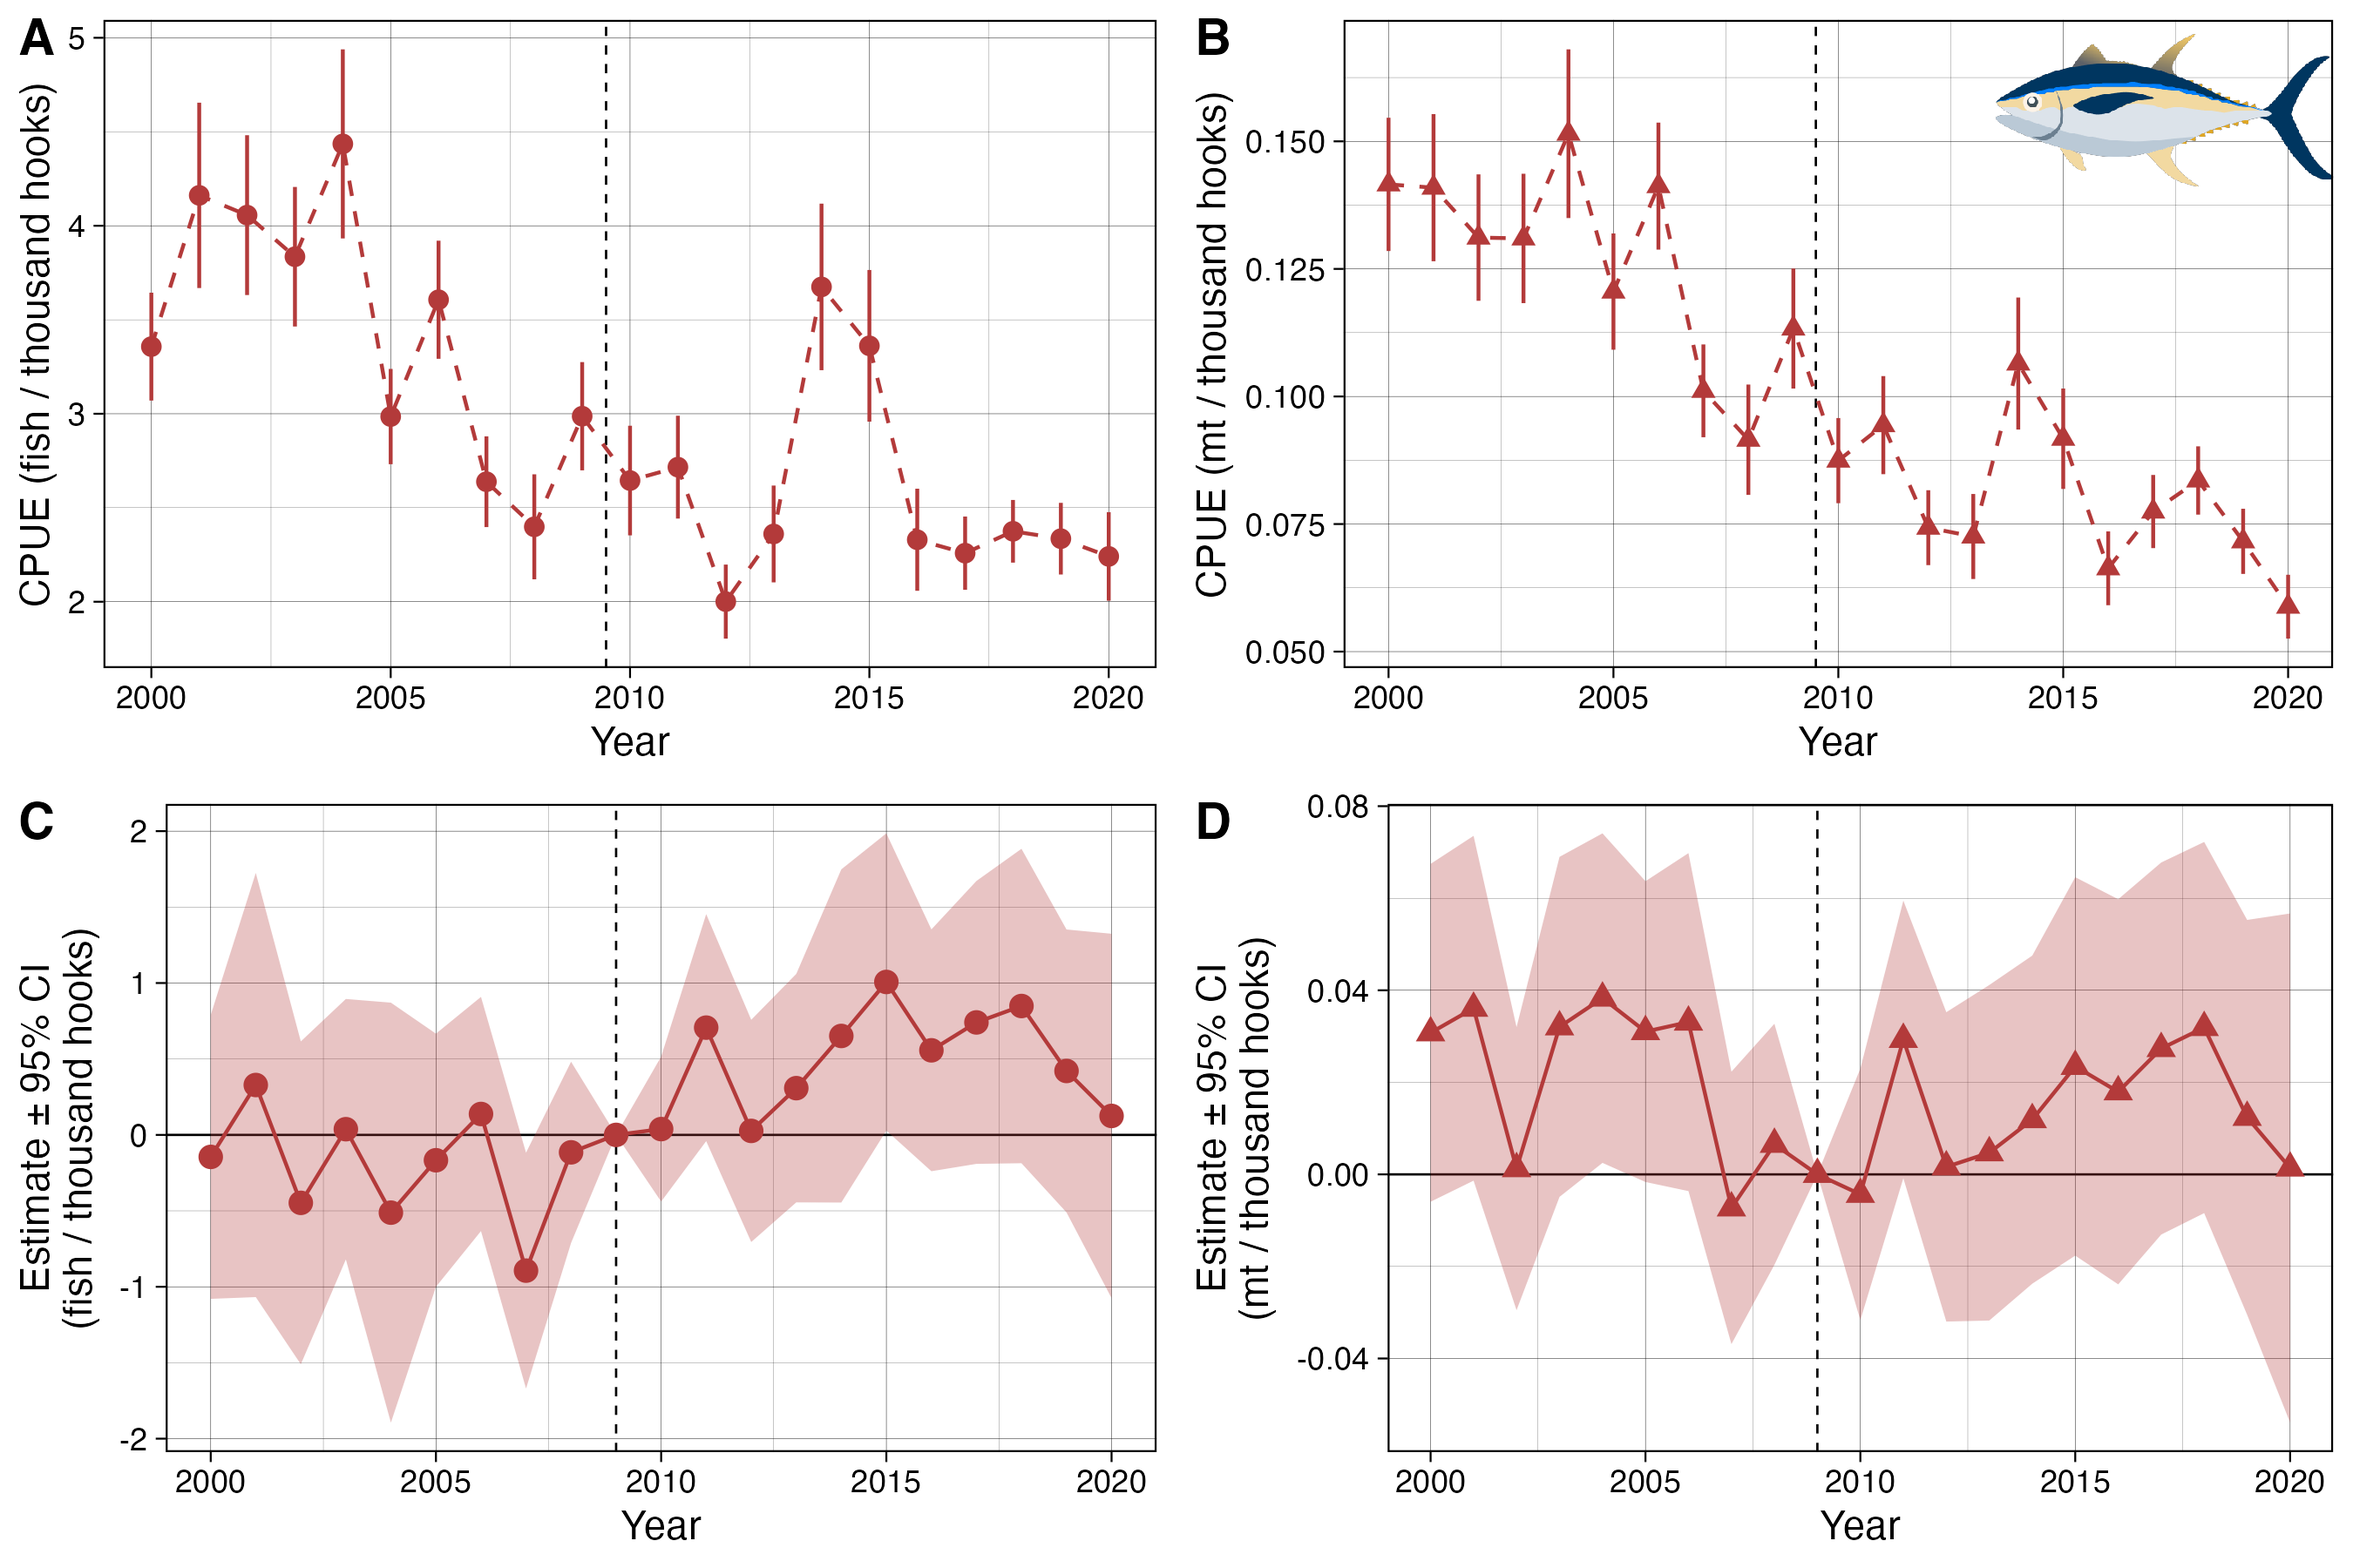
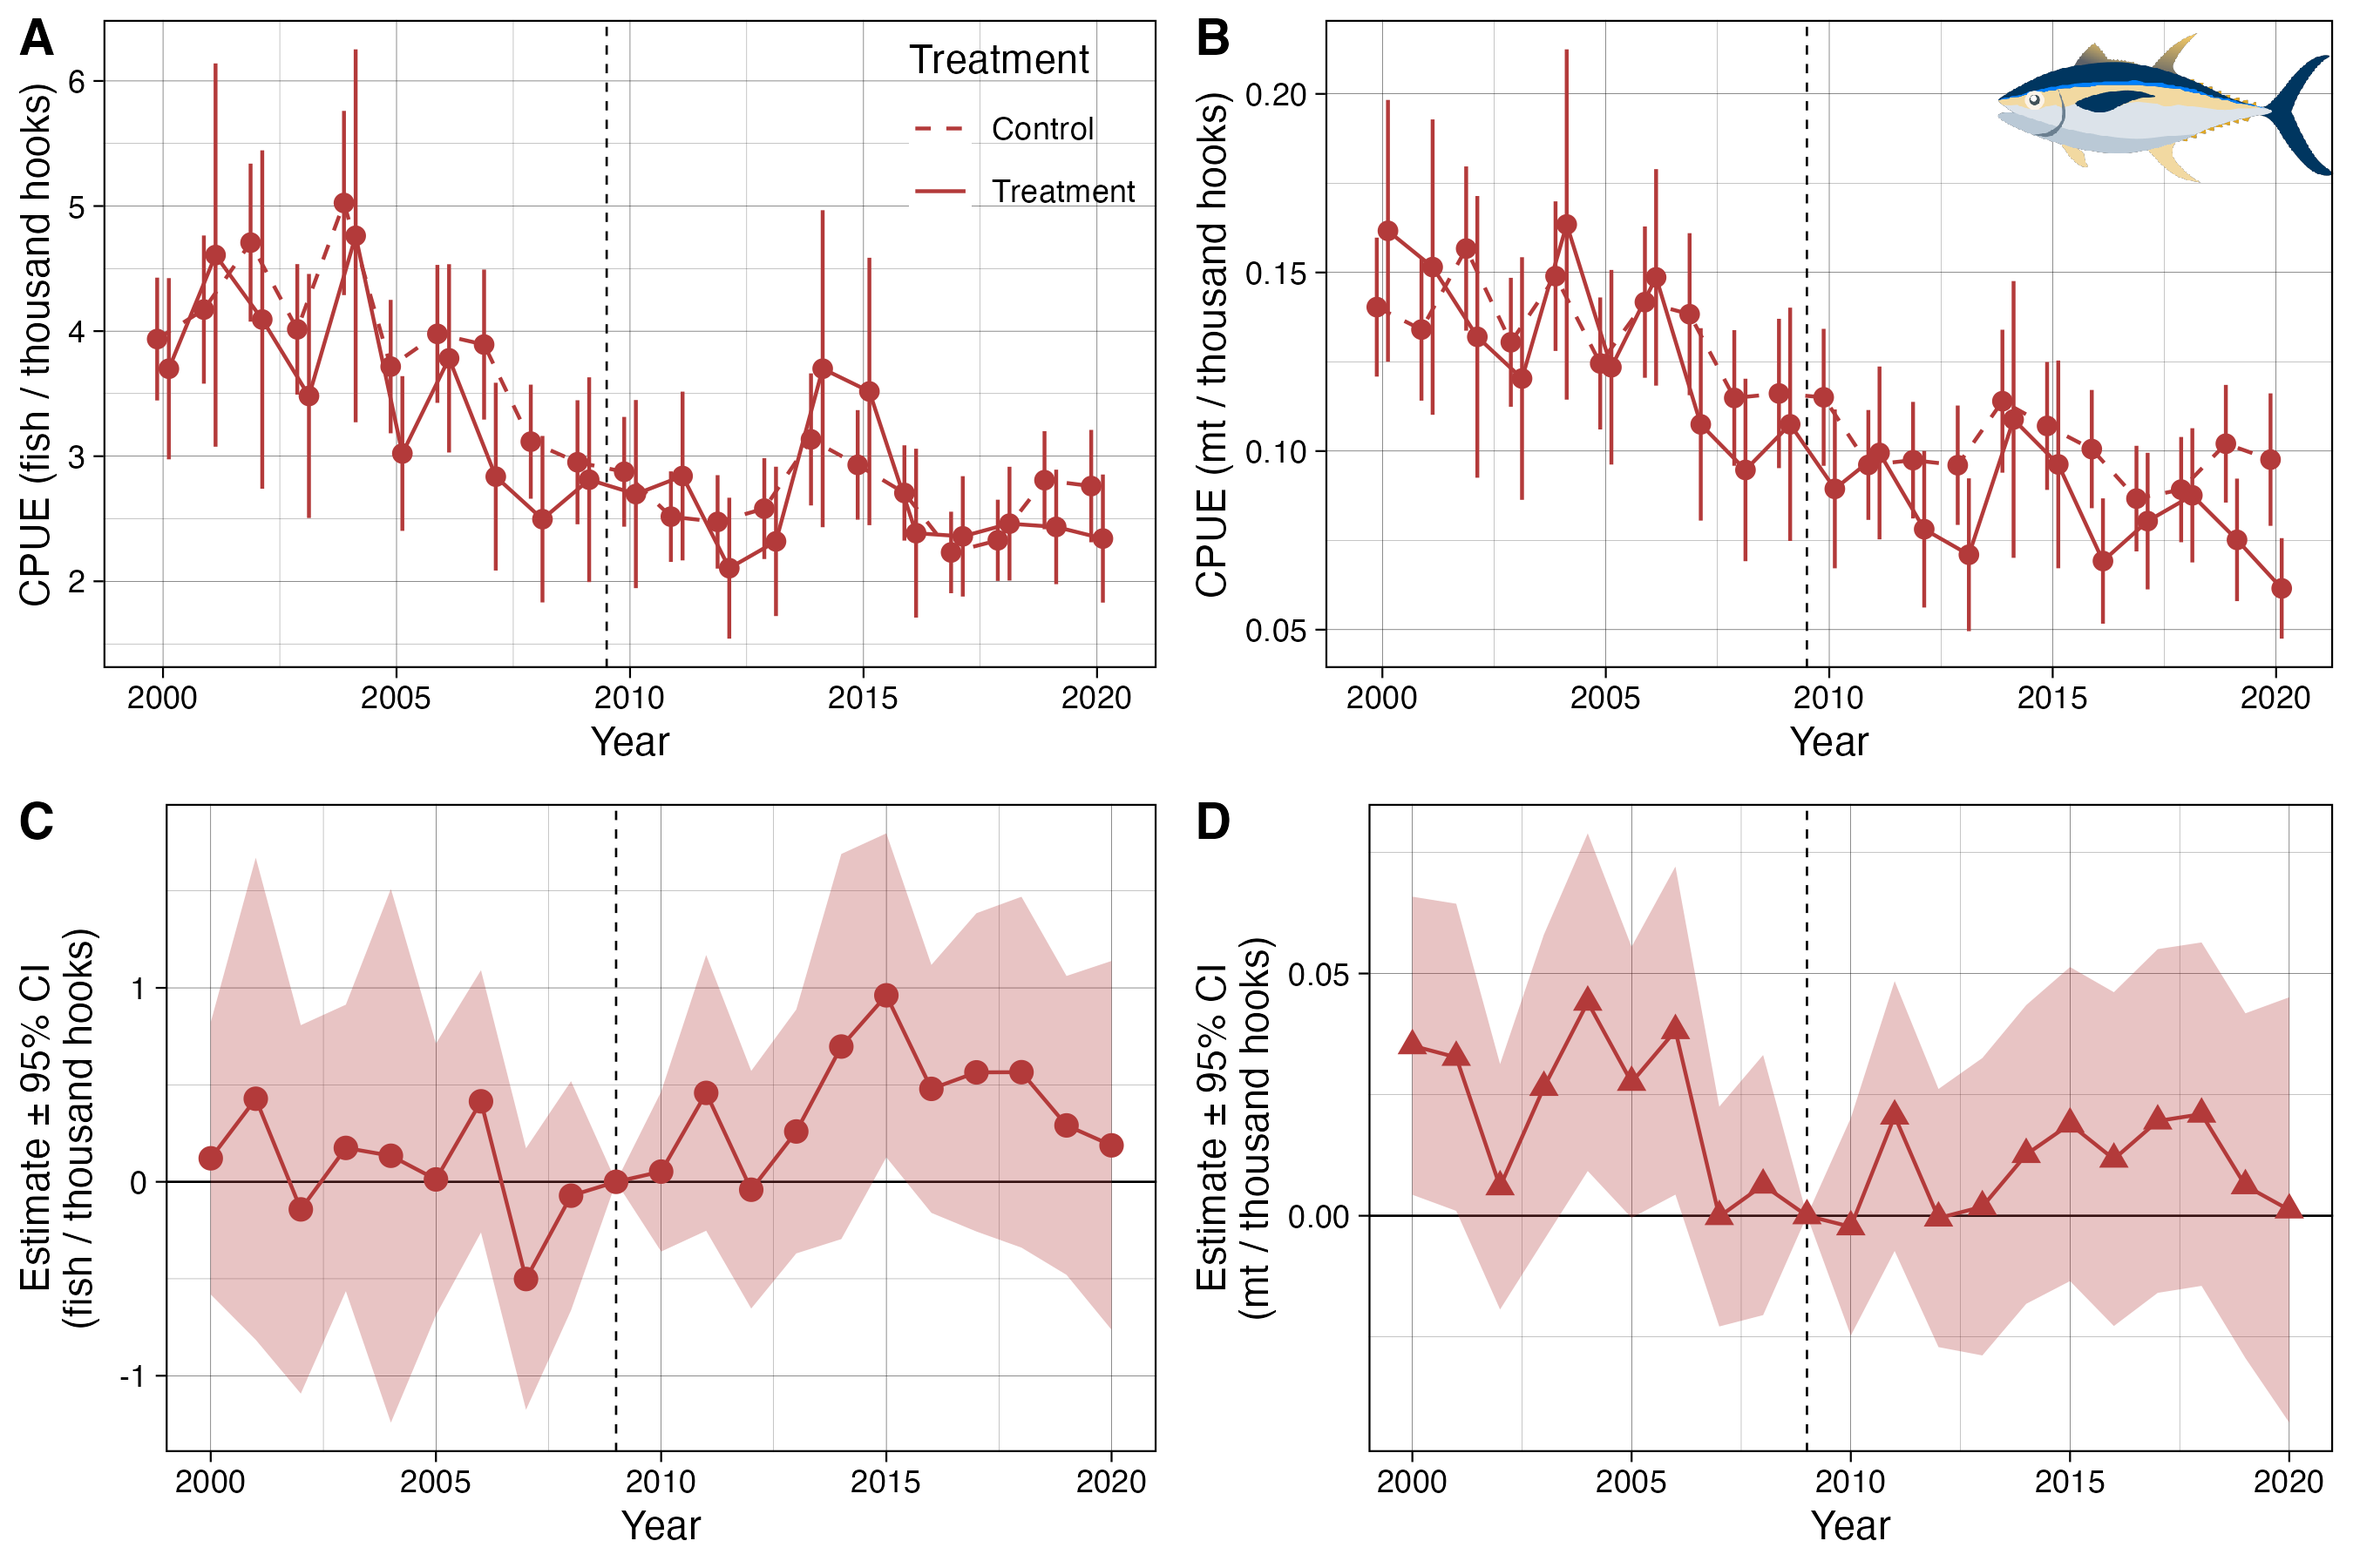
Updated H2 analyses with new sample deffinition

diff --git a/content/tab/h2_reg.tex b/content/tab/h2_reg.tex
@@ -1,26 +1,26 @@
 \begin{table}
 \centering
 \begin{threeparttable}
-\caption{\label{tab:h2}Coefficient estimates for change in Bigeye tuna CPUE in
-             the high seas pocket after the closure, relative to changes in Bigeye tuna CPUE
+\caption{\label{tab:h2}Coefficient estimates for change in bigeye tuna CPUE in
+             the high seas pockets after the closure, relative to changes in bigeye tuna CPUE
              observed for other tropical (20°S - 20°N) high seas areas in the WCPFC convention area.}
 \centering
 \begin{tabular}[t]{lcc}
 \toprule
   & fish / 1000 hooks & mt / 1000 hooks\\
 \midrule
-Post x Treated & \num{0.699}** & \num{-0.003}\\
- & (\num{0.353}) & (\num{0.011})\\
-$\bar{Y}_{pre}$ & \num{3.438} & \num{0.126}\\
+Post x Treated & \num{0.389} & \num{-0.008}\\
+ & (\num{0.338}) & (\num{0.010})\\
+$\bar{Y}_{pre}$ & \num{3.548} & \num{0.131}\\
 \midrule
-Num.Obs. & \num{12606} & \num{12606}\\
-R2 Adj. & \num{0.547} & \num{0.645}\\
+Num.Obs. & \num{2322} & \num{2322}\\
+R2 Adj. & \num{0.818} & \num{0.854}\\
 \bottomrule
 \end{tabular}
 \begin{tablenotes}
 \small
 \item * p $<$ 0.1, ** p $<$ 0.05, *** p $<$ 0.01
-\item The unit of observation is a grid cell by year. All model specifications include fixed effects by year and grid cell. Numbers in parentheses are Conley standard errors with a 1100km radius. $\bar{Y}_{pre}$ indicates the mean of each outcome variable in the pre-closure period.
+\item The unit of observation is a grid cell in a given year. All model specifications include fixed effects by year and grid cell. Numbers in parentheses are Conley standard errors with a 1100km radius. $\bar{Y}_{pre}$ indicates the mean of each outcome variable over the pre-closure period.
 \end{tablenotes}
 \end{threeparttable}
 \end{table}

diff --git a/content/tab/h2_reg_all.tex b/content/tab/h2_reg_all.tex
@@ -2,7 +2,7 @@
 \centering
 \begin{threeparttable}
 \small
-\caption{Change in CPUE for all tuna species caught by the longline fleet in the high seas pockets}
+\caption{\label{tab:h2_reg_all}Change in CPUE for all tuna species caught by the longline fleet in the high seas pockets.}
 \centering
 \begin{tabular}[t]{lcc}
 \toprule
@@ -10,22 +10,22 @@
 \midrule
 \addlinespace[0.5em]
 \multicolumn{3}{l}{\textit{A) Levels}}\\
-\midrule \hspace{1em}Post x Treated & 0.664 & -0.009\\
-\hspace{1em} & (1.559) & (0.027)\\
-\hspace{1em}R2 Adj. & 0.357 & 0.295\\
+\midrule \hspace{1em}Post x Treated & 1.407 & 0.006\\
+\hspace{1em} & (1.375) & (0.025)\\
+\hspace{1em}R2 Adj. & 0.663 & 0.515\\
 \addlinespace[0.5em]
 \multicolumn{3}{l}{\textit{B) Log-transformed}}\\
-\midrule \hspace{1em}Post x Treated & 0.188 & -0.001\\
-\hspace{1em} & (0.130) & (0.083)\\
-\hspace{1em}R2 Adj. & 0.479 & 0.404\\
+\midrule \hspace{1em}Post x Treated & 0.189 & 0.035\\
+\hspace{1em} & (0.122) & (0.077)\\
+\hspace{1em}R2 Adj. & 0.724 & 0.609\\
 \midrule\\
-\hspace{1em}Num.Obs. & 12626 & 12626\\
+\hspace{1em}Num.Obs. & 2323 & 2323\\
 \bottomrule
 \end{tabular}
 \begin{tablenotes}
 \small
 \item * p $<$ 0.1, ** p $<$ 0.05, *** p $<$ 0.01
-\item The unit of observation is a grid cell by year. All model specifications include fixed effects by year and grid cell. Numbers in parentheses are Conley standard errors with a 1100km radius.
+\item The unit of observation is a grid cell in a given year. All model specifications include fixed effects by year and grid cell. Numbers in parentheses are Conley standard errors with a 1100km radius.
 \end{tablenotes}
 \end{threeparttable}
 \end{table}

diff --git a/content/tab/h2_reg_yft.tex b/content/tab/h2_reg_yft.tex
@@ -2,7 +2,7 @@
 \centering
 \begin{threeparttable}
 \small
-\caption{Change in CPUE for Yellowfin tuna caught by the longline fleet in the high seas pockets}
+\caption{\label{tab:h2_reg_yft}Change in CPUE for Yellowfin tuna caught by the longline fleet in the high seas pockets.}
 \centering
 \begin{tabular}[t]{lcc}
 \toprule
@@ -10,22 +10,22 @@
 \midrule
 \addlinespace[0.5em]
 \multicolumn{3}{l}{\textit{A) Levels}}\\
-\midrule \hspace{1em}Post x Treated & 0.598 & 0.002\\
-\hspace{1em} & (0.832) & (0.015)\\
-\hspace{1em}R2 Adj. & 0.228 & 0.380\\
+\midrule \hspace{1em}Post x Treated & 0.728 & 0.008\\
+\hspace{1em} & (0.668) & (0.014)\\
+\hspace{1em}R2 Adj. & 0.599 & 0.651\\
 \addlinespace[0.5em]
 \multicolumn{3}{l}{\textit{B) Log-transformed}}\\
-\midrule \hspace{1em}Post x Treated & 0.319** & 0.160\\
-\hspace{1em} & (0.139) & (0.112)\\
-\hspace{1em}R2 Adj. & 0.467 & 0.453\\
+\midrule \hspace{1em}Post x Treated & 0.310** & 0.182*\\
+\hspace{1em} & (0.129) & (0.105)\\
+\hspace{1em}R2 Adj. & 0.707 & 0.712\\
 \midrule\\
-\hspace{1em}Num.Obs. & 12620 & 12620\\
+\hspace{1em}Num.Obs. & 2323 & 2323\\
 \bottomrule
 \end{tabular}
 \begin{tablenotes}
 \small
 \item * p $<$ 0.1, ** p $<$ 0.05, *** p $<$ 0.01
-\item The unit of observation is a grid cell by year. All model specifications include fixed effects by year and grid cell. Numbers in parentheses are Conley standard errors with a 1100km radius.
+\item The unit of observation is a grid cell in a given year. All model specifications include fixed effects by year and grid cell. Numbers in parentheses are Conley standard errors with a 1100km radius.
 \end{tablenotes}
 \end{threeparttable}
 \end{table}

diff --git a/content/tab/h2_reg_bet.tex b/content/tab/h2_reg_bet.tex
@@ -2,7 +2,7 @@
 \centering
 \begin{threeparttable}
 \small
-\caption{Change in CPUE for Bigeye tuna caught by the longline fleet in the high seas pockets}
+\caption{\label{tab:h2_reg_bet}Change in CPUE for Bigeye tuna caught by the longline fleet in the high seas pockets.}
 \centering
 \begin{tabular}[t]{lcc}
 \toprule
@@ -10,22 +10,22 @@
 \midrule
 \addlinespace[0.5em]
 \multicolumn{3}{l}{\textit{A) Levels}}\\
-\midrule \hspace{1em}Post x Treated & 0.699** & -0.003\\
-\hspace{1em} & (0.353) & (0.011)\\
-\hspace{1em}R2 Adj. & 0.547 & 0.645\\
+\midrule \hspace{1em}Post x Treated & 0.389 & -0.008\\
+\hspace{1em} & (0.338) & (0.010)\\
+\hspace{1em}R2 Adj. & 0.818 & 0.854\\
 \addlinespace[0.5em]
 \multicolumn{3}{l}{\textit{B) Log-transformed}}\\
-\midrule \hspace{1em}Post x Treated & 0.037 & -0.170**\\
-\hspace{1em} & (0.092) & (0.081)\\
-\hspace{1em}R2 Adj. & 0.706 & 0.749\\
+\midrule \hspace{1em}Post x Treated & 0.079 & -0.112\\
+\hspace{1em} & (0.089) & (0.084)\\
+\hspace{1em}R2 Adj. & 0.855 & 0.884\\
 \midrule\\
-\hspace{1em}Num.Obs. & 12606 & 12606\\
+\hspace{1em}Num.Obs. & 2322 & 2322\\
 \bottomrule
 \end{tabular}
 \begin{tablenotes}
 \small
 \item * p $<$ 0.1, ** p $<$ 0.05, *** p $<$ 0.01
-\item The unit of observation is a grid cell by year. All model specifications include fixed effects by year and grid cell. Numbers in parentheses are Conley standard errors with a 1100km radius.
+\item The unit of observation is a grid cell in a given year. All model specifications include fixed effects by year and grid cell. Numbers in parentheses are Conley standard errors with a 1100km radius.
 \end{tablenotes}
 \end{threeparttable}
 \end{table}

diff --git a/content/summaries/h2_summaries.tex b/content/summaries/h2_summaries.tex
@@ -1,12 +1,12 @@
---- 2026-05-22 ---
+--- 2026-07-27 ---
 Notes for H2
 
 
 Table: N per treatment group
  
-  treated    n
- --------  ---
-        0   69
-        1   16
+  treated     n
+ --------  ----
+        0   106
+        1    16
 
 
